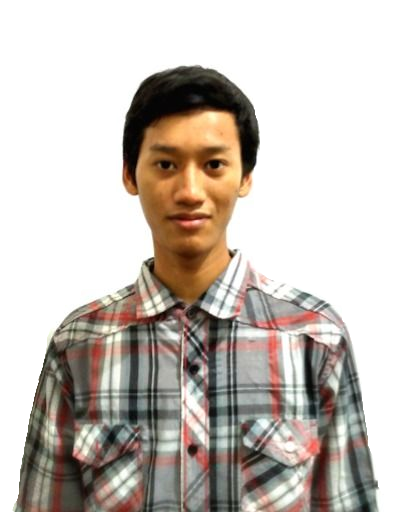
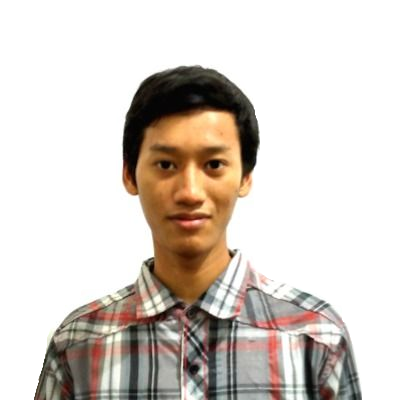
change background in first section

diff --git a/index.html b/index.html
@@ -59,15 +59,15 @@
                 </div>
             </nav>
             
-            <section style="padding-top: 50px;" id="scroll-element" data-scroll-index="0">
+            <section style="padding-top: 50px;background: #eeeeee;" id="scroll-element" data-scroll-index="0">
                 <div class="hero">
                     <div class="hero-left">
-                        <img src="img/profil.jpg" style="max-width: 50%; border-radius: 50%; ">
+                        <img src="img/profil.png" style="max-width: 75%; border-radius: 50%; size: 120%;">
                         <h2 class="subtitle-name"><b>Fadhil I. Kurnia</b> <br><small>a long live learner</small></h2>
                         <div class="icons">
 
                             <a href="static/CV_FadhilKurnia.pdf" target="blank">
-                                <img src="img/cv.svg" style="width: 16px;" alt="">
+                                <img src="img/cv.svg" style="width: 19px;" alt="">
                             </a>
                             
                             <!-- <a href="mailto:fadhilikurnia@gmail.com">
@@ -89,7 +89,7 @@
                             </a>
                              -->
                             <a href="https://www.linkedin.com/in/fadhilkurnia/" target="blank">
-                                <svg width="17px" height="16px" viewBox="0 0 17 16" version="1.1" xmlns="http://www.w3.org/2000/svg" xlink="http://www.w3.org/1999/xlink">
+                                <svg width="20px" height="20px" viewBox="0 0 17 16" version="1.1" xmlns="http://www.w3.org/2000/svg" xlink="http://www.w3.org/1999/xlink">
                                     
                                     <title>social-16px_logo-linkedin</title>
                                     <desc>Created with Sketch.</desc>
@@ -107,11 +107,11 @@
                             </a>
                             
                             <a href="https://github.com/fadhilkurnia" target="blank">
-                                <img src="img/github.svg" style="width: 18px;" alt="">
+                                <img src="img/github.svg" style="width: 20px;" alt="">
                             </a>
 
                             <a href="https://twitter.com/fadhilikurnia" target="blank">
-                                <img src="img/twitter.svg" style="width: 18px;" alt="">
+                                <img src="img/twitter.svg" style="width: 20px;" alt="">
                             </a>
                             
                         </div>
@@ -119,18 +119,15 @@
                             <!-- onclick="ga('send', {hitType: 'event',eventCategory: 'CTA',eventAction: 'download'});"> -->
                             <!-- <img style="position: relative;top: 1.8px;padding-right: 6px;" src="svg/dl-resume.svg">
                             Download Resume/CV</a> -->
-                        <div class="hero-left">
-                            <p>
-                                <img src="img/email.svg" style="width: 15px;"> &nbsp;fikurnia[at]cs.umass.edu <br>
-                                MS/PhD Student at UMass Amherst
-                            </p>
-                        </div>
+                        
                     </div>
                     <div class="hero-right">
                         <p><b>Fadhil</b> is a first year MS/PhD student at College of Information and Computer Science, University of Massachusetts Amherst.</p>
                         <p>He received B.S degree in Informatics/Computer Science from Institut Teknologi Bandung (ITB), Indonesia, with cum laude distinction. During his time in college, he remotely worked with <b><a style="text-decoration: none;" href="https://people.cs.uchicago.edu/~haryadi/" target="blank">Prof. Haryadi S. Gunawi</a></b> from UCARE Lab, University of Chicago.</p>
                         <p>He has broad interest in <b>Distributed System</b>, Storage Technology, Machine Learning, and Networked System.</p>
                         <p>Fadhil has good amount of experience working in software industry. During his undergraduate, He spent his semester break holiday doing internship in several tech companies, such as Suitmedia, Tokopedia, and Bukalapak R&D. Previously he also worked as a Software Engineer in Ruangguru.</p>
+                        <br>
+                        <img src="img/email.svg" style="width: 15px;"> &nbsp;fikurnia[at]cs.umass.edu |&nbsp; <img src="img/laptop.svg" style="width: 15px;"> &nbsp;CS PhD Student at UMass Amherst<br>
                     </div>
                 </div>
             </section>

diff --git a/css/final.css b/css/final.css
@@ -180,7 +180,7 @@ section {
 }
 
 .subtitle-name {
-  font-size: 32px;
+  font-size: 34px;
   color: #0091EA;
   font-weight: 300;
 }
@@ -196,10 +196,10 @@ section {
 .hero-right p {
   /* color: #929292; */
   font-size: 16px;
-  color: #777777;
+  color: #3e3939;
   letter-spacing: 0;
   /* line-height: 25px; */
-  line-height: 1.8em;
+  line-height: 1.6em;
 }
 
 .hero-right em {
